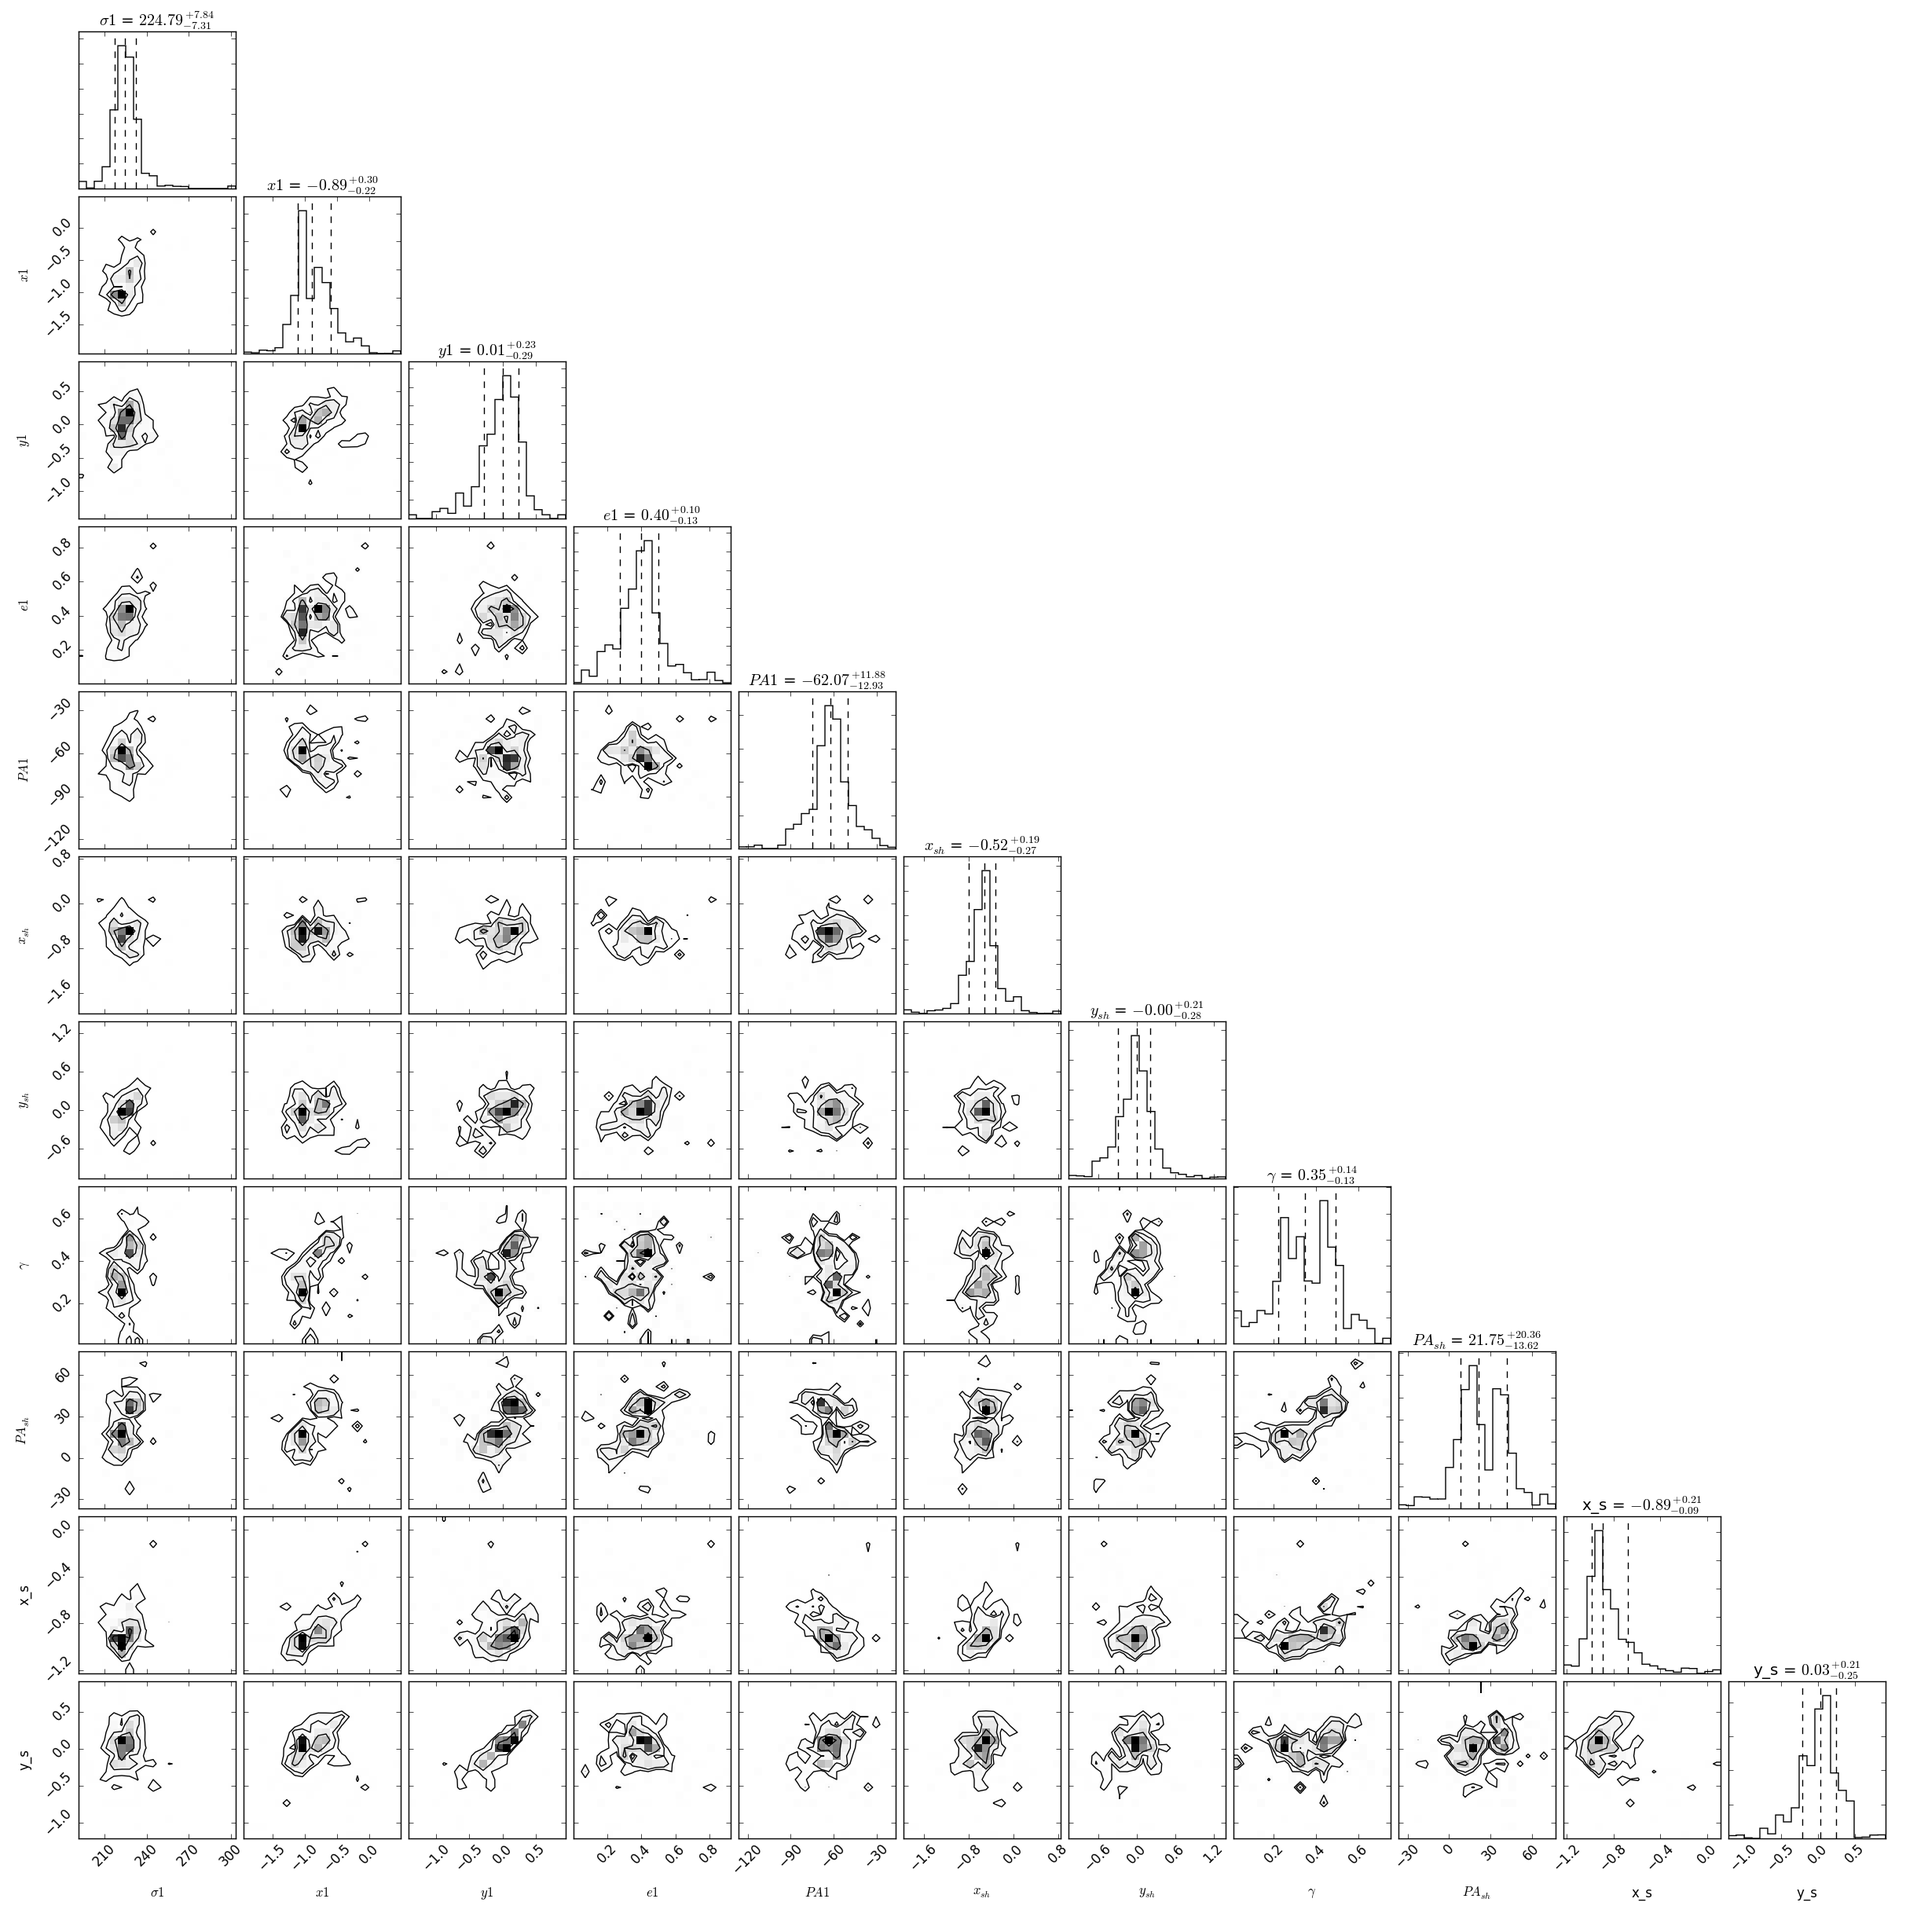
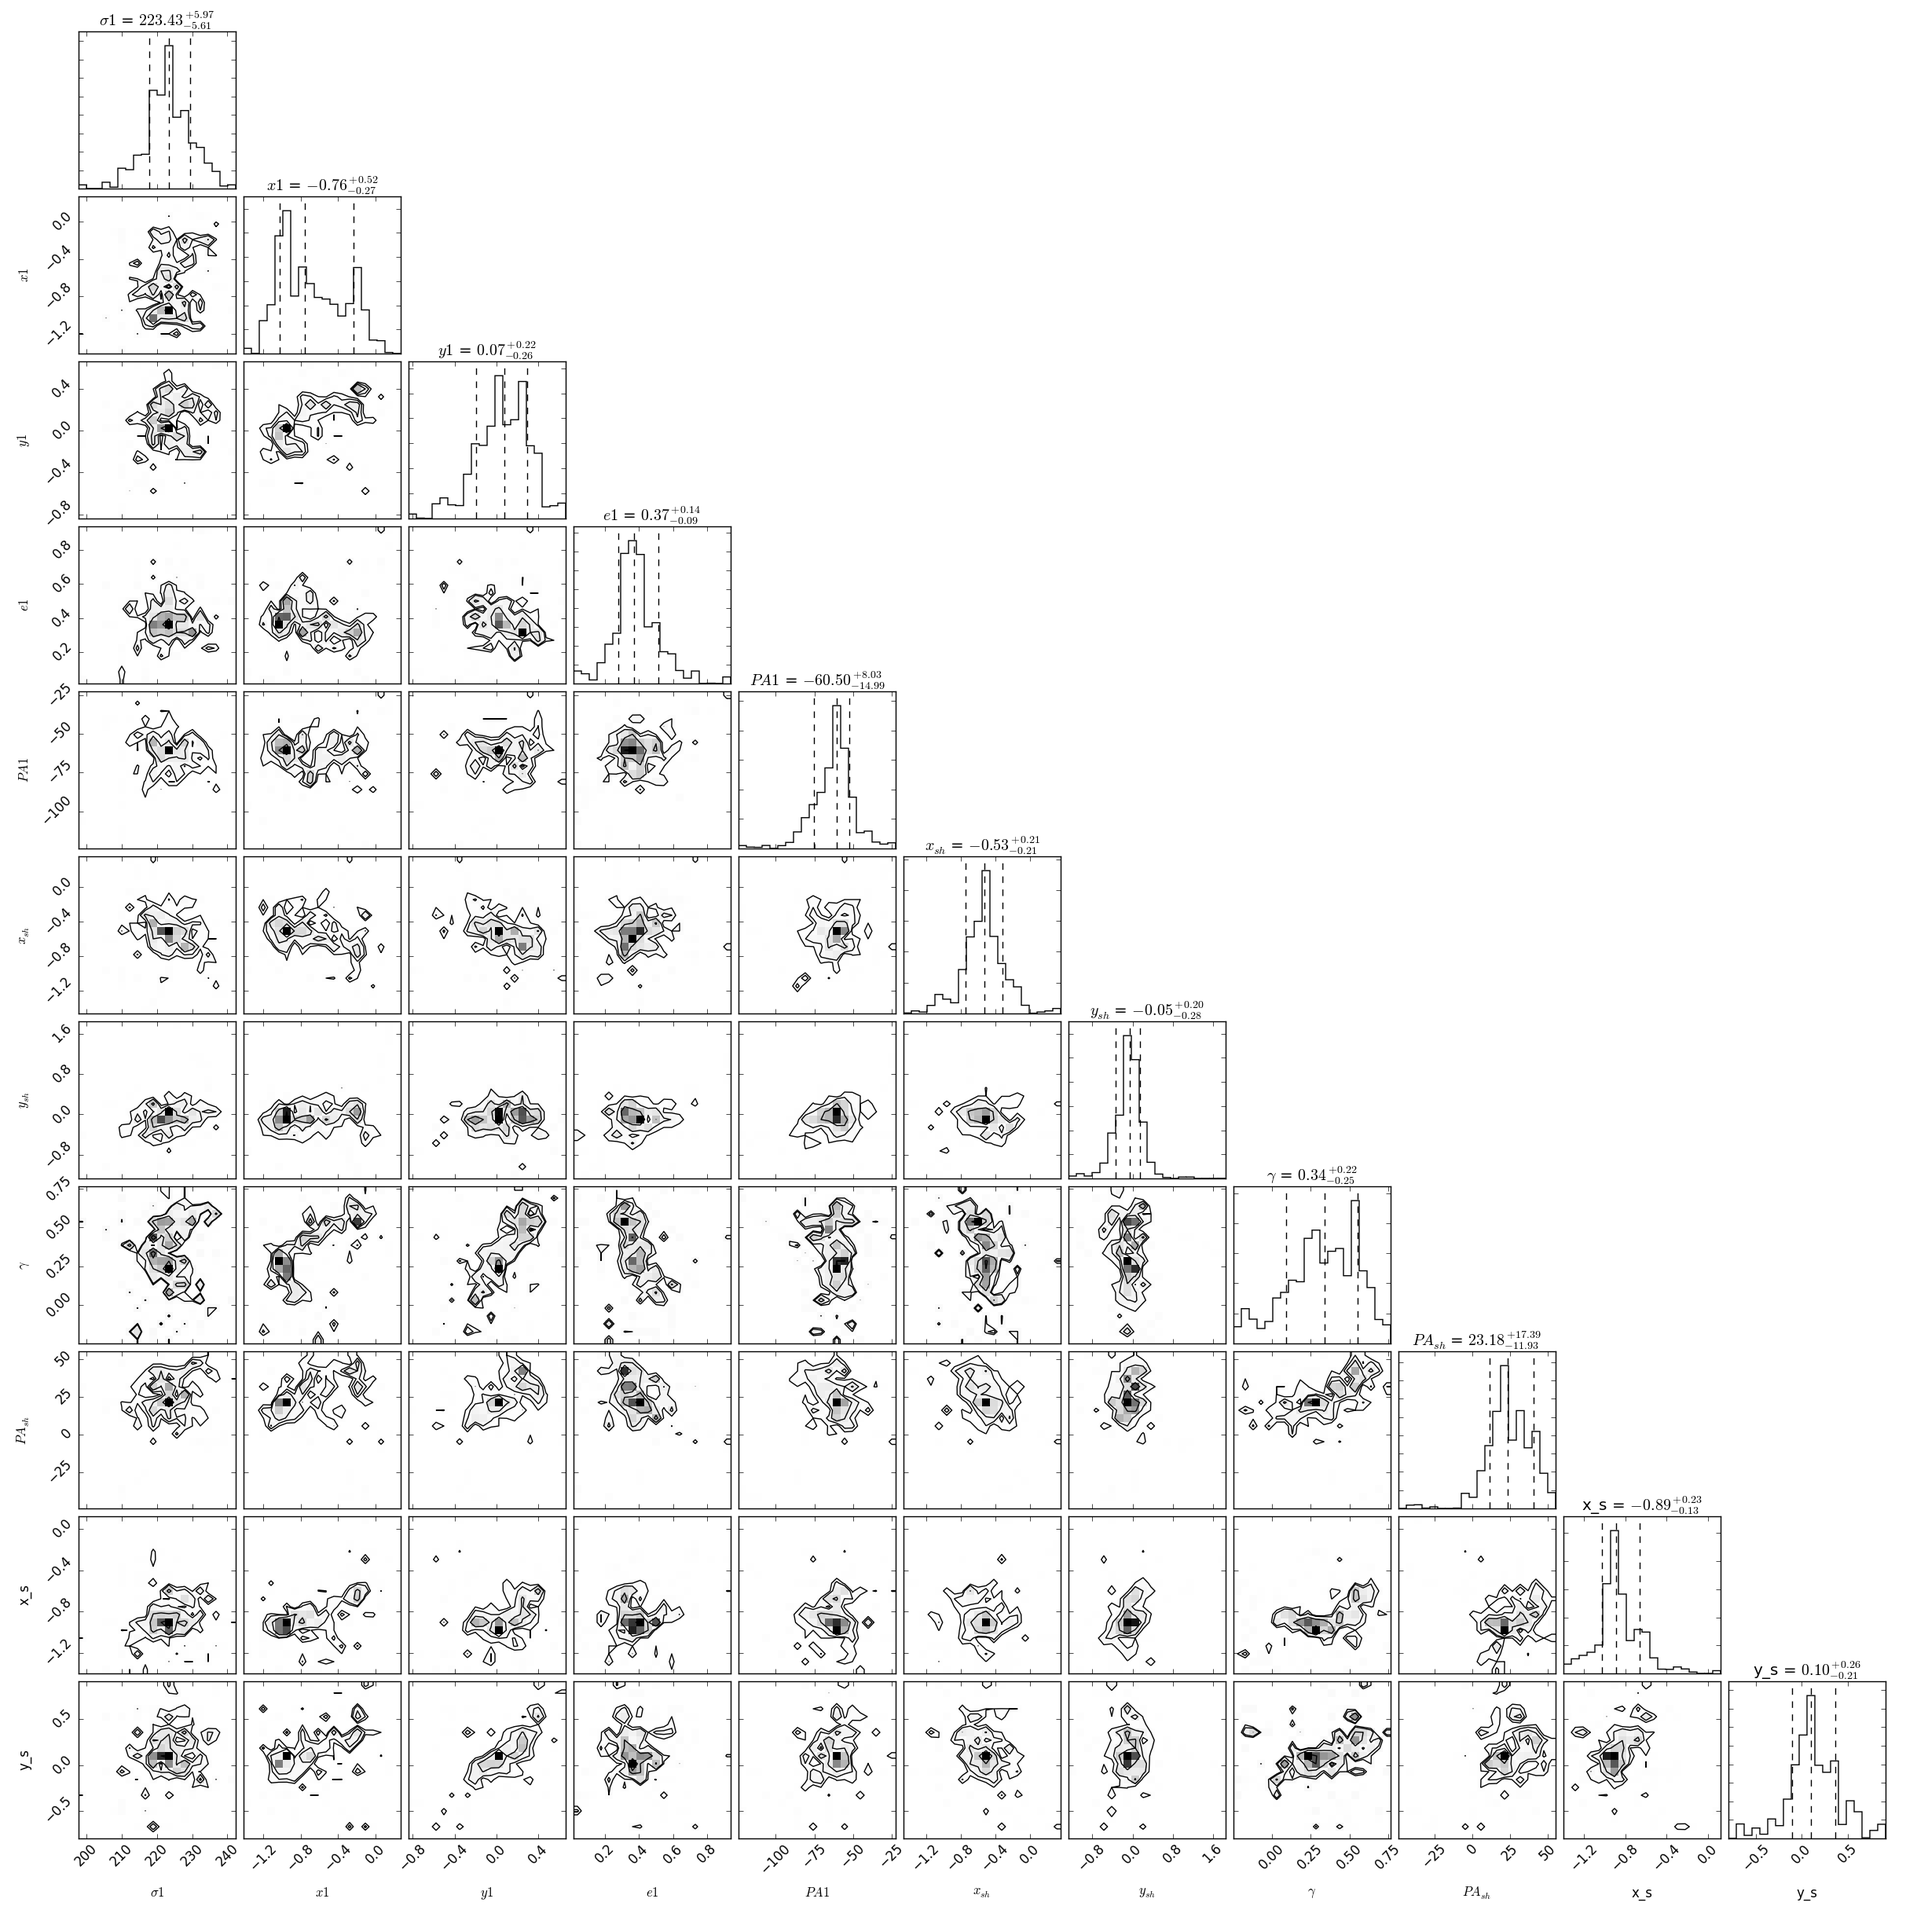
B0712 2SIE model & emcee sort_img update

diff --git a/models/B0712/glafic_code/emcee_SIE_sh.py b/models/B0712/glafic_code/emcee_SIE_sh.py
@@ -3,6 +3,9 @@ import numpy as np
 import emcee
 import triangle as tri
 
+img_obs=np.array([0.0,0.0,15.6,-0.075,-0.16,13.104, -1.185,-0.67,6.5208,-1.71,0.460,1.2792])
+err_obs=np.array([1.0e-6,1.0e-6,3.70,0.01,0.01,2.97,0.01,0.01,1.83,0.06,0.06,0.3])
+
 def call_findimage(paras):
     
     ## create input file
@@ -53,8 +56,8 @@ def call_findimage(paras):
         ## run glafic
         
         #os.system('glafic')
-        os.system('glafic emcee.input') #this line works for linux machine
-        #os.system('~/Documents/glafic/glafic emcee.input')
+        #os.system('glafic emcee.input') #this line works for linux machine
+        os.system('~/Documents/glafic/glafic emcee.input')
         
         #sub.call('glafic emcee.input')
         
@@ -102,24 +105,26 @@ def img_sort(model):
         
         # distance
         
-        dis=np.zeros(4)
-        for i in range(4):
-            dis[i]=model[i,0]**2+model[i,1]**2
+        dis=np.zeros((4,4)) # distance to image A,B,C,D
+        
+        for i in range(4): # model_images
+            for j in range(4): # obs_images
+                dis[i,j]=(model[i,0]-img_obs[j*3])**2+(model[i,1]-img_obs[j*3+1])**2
 
-
+        '''
         # pick out img D
-        d=np.argmin(model[:,1]) # y coord (D has negative y coord)
+        d=np.argmin(model[:,0]) # x coord (D has most negative x coord)
         rank[9:]=model[d,:]
         dis[d]=1000  # get rid of the recorded set
-        
+        '''
 
-        # sort distance to find image A->B->C
+        # sort distance to find image A->B->C->D
         
-        for i in range(3):
-            k=np.argmin(dis)
+        for j in range(4):
+            k=np.argmin(dis[:,j])
             print model[k,:]
-            rank[3*i:3+3*i]=model[k,:]
-            dis[k]=1000 #
+            rank[3*j:3+3*j]=model[k,:]
+            dis[k,:]=1000 # kick out from the comparison
 
         return rank
 
@@ -135,8 +140,8 @@ def lnprob(paras):
 
         # B1555 constraints
         #x= np.arrange(10)
-        y= np.array([0.0,0.0,15.6,-0.075,-0.16,13.104, -1.185,-0.67,6.5208,-1.71,0.460,1.2792])
-        err= np.array([1.0e-6,1.0e-6,3.70,0.01,0.01,2.97,0.01,0.01,1.83,0.06,0.06,0.3])
+        y= img_obs
+        err= err_obs
         
         # check the n_img
         if len(model) != 1:
@@ -196,7 +201,7 @@ def writeimg(paras):
 nwalker=200 #number of chains
 ndim=11   #number of parameters
 burn=10   #number of (burn in) collect step
-burn2=200 #number of (real) burn in step
+burn2=300 #number of (real) burn in step
 nstep=2000  #number of MCMC steps
 
 ## set up for start points
@@ -234,20 +239,20 @@ p1=np.zeros(nwalker*ndim)
 k=0
 
 
-
+'''
 #while k<nwalker:
 while k<(nwalker-1):
 	p0=start_point(mean,sig,w_factor,nwalker) # re-assign starting point
 	pos, prob, state = sampler.run_mcmc(p0,burn)
 	#print prob
 	for i in range(nwalker):
-    		if prob[i]!=flag:
+        if prob[i]!=flag:
 #			print pos[i,:]			
-			p1[(k*ndim):((k+1)*ndim)]=pos[i,:]
-			if k==(nwalker-1):
-				break
-			else:
-				k=k+1
+            p1[(k*ndim):((k+1)*ndim)]=pos[i,:]
+            if k==(nwalker-1):
+                break
+            else:
+                k=k+1
     	
 	sampler.reset()
 	
@@ -257,12 +262,14 @@ p2=np.zeros(((nwalker,ndim)))
 for i in range(nwalker):
 	p2[i,:]=p1[(i*ndim):((i+1)*ndim)]
 
+# the end of selection step
+find.write('# \n')
 
-
+'''
 ## (real) burn-in steps
 
-p3, prob, state = sampler.run_mcmc(p2,burn2)
-#p3, prob, state = sampler.run_mcmc(p0,burn2)
+#p3, prob, state = sampler.run_mcmc(p2,burn2)
+p3, prob, state = sampler.run_mcmc(p0,burn2)
 
 
 # the end of burn-in step

diff --git a/python/emcee_corner.py b/python/emcee_corner.py
@@ -3,7 +3,7 @@ import triangle
 import matplotlib.pyplot as plt
 #import matplotlib.patches as mpat
 
-file_name=['B0712_SIEsh_chain.dat']
+file_name=['SIEsh_2_chain.dat']
 
 k=0
 for i in file_name:

diff --git a/python/img_corner.py b/python/img_corner.py
@@ -3,7 +3,7 @@ import triangle
 import matplotlib.pyplot as plt
 #import matplotlib.patches as mpat
 
-file_name=['imgchain.dat']
+file_name=['SIEsh_2_imgchain.dat']
 
 k=0
 for i in file_name:
